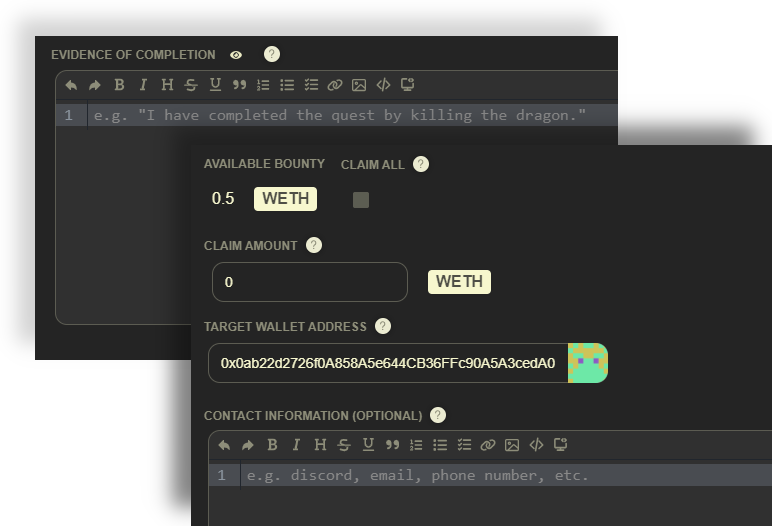
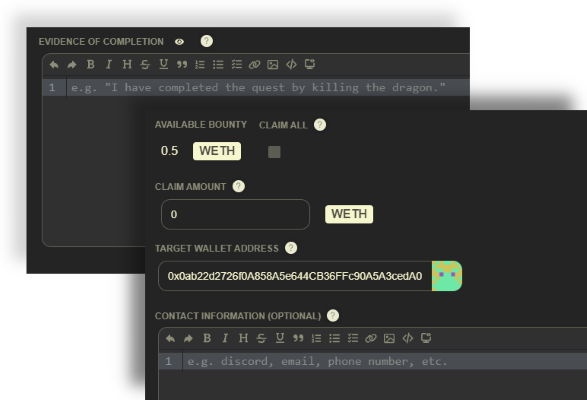
Resize images and pimpup

diff --git a/packages/react-app/src/components/modals/guide-modal.tsx b/packages/react-app/src/components/modals/guide-modal.tsx
@@ -9,6 +9,7 @@ import ClaimScreenshot from 'src/assets/ClaimScreenshot.png';
 import ChallengeScreenshot from 'src/assets/ChallengeScreenshot.png';
 import ResolveScreenshot from 'src/assets/ResolveScreenshot.png';
 import RecoverFundsScreenshot from 'src/assets/RecoverFundsScreenshot.png';
+import useImagePreloader from 'src/hooks/use-image-preloader';
 import { GUpx } from 'src/utils/style.util';
 import styled from 'styled-components';
 import { useThemeContext } from 'src/contexts/theme.context';
@@ -34,7 +35,7 @@ const OpenButtonStyled = styled(Button)<{ theme: ThemeInterface }>`
 const ExploreButtonStyled = styled(Button)<{ theme: ThemeInterface }>`
   &,
   span {
-    color: ${({ theme }) => theme.accentContent};
+    color: ${({ theme }) => theme.content};
   }
 `;
 
@@ -76,7 +77,9 @@ const SecondColStyled = styled.div<{ width?: string }>`
   display: flex;
   flex-direction: column;
   align-items: center;
+  justify-content: center;
   width: ${({ width }) => width ?? '50%'};
+  height: 100%;
 `;
 
 const SideImageStyled = styled.img`
@@ -96,6 +99,16 @@ type Props = {
 export default function GuideModal({ onClose = noop }: Props) {
   const [opened, setOpened] = useState(false);
   const { currentTheme } = useThemeContext();
+
+  useImagePreloader([
+    Piggy,
+    QuestListScreenshot,
+    CreateQuestScreenshot,
+    ClaimScreenshot,
+    ChallengeScreenshot,
+    ResolveScreenshot,
+    RecoverFundsScreenshot,
+  ]);
 
   useEffect(() => {
     if (localStorage.getItem('alreadyVisisted') !== 'true') {
@@ -138,6 +151,7 @@ export default function GuideModal({ onClose = noop }: Props) {
                 label="🌟 Start exploring"
                 title="Start exploring"
                 mode="positive"
+                theme={currentTheme}
               />
             }
             steps={[
@@ -147,18 +161,17 @@ export default function GuideModal({ onClose = noop }: Props) {
                     id="page1"
                     value="#### Quests
 # Welcome 👋
-Here's a quick guide on how to use the Quests platform"
+Here's a 7 steps to understand how Quests works."
                   />
                 </FirstColStyled>
                 <SecondColStyled>
                   <SideImageStyled
                     style={{
                       width: 325,
-                      height: 430,
+                      height: '100%',
                     }}
                     src={backgroundLogo}
                     alt="logo"
-                    loading="lazy"
                   />
                 </SecondColStyled>
               </GuideStepStyled>,
@@ -187,35 +200,35 @@ Here's a quick guide on how to use the Quests platform"
                   />
                 </FirstColStyled>
                 <SecondColStyled>
-                  <SideImageStyled src={QuestListScreenshot} alt="quest list" loading="lazy" />
+                  <SideImageStyled src={QuestListScreenshot} alt="quest list" />
                 </SecondColStyled>
               </GuideStepStyled>,
               <GuideStepStyled>
                 <FirstColStyled width="45%">
                   <MarkdownFieldInput
                     id="page4"
-                    value='## Step 3: Create or Fund a Quest 💰
-- If you are a _Creator_, you can choose to create a quest. Click on the "Create Quest" button. And fill in the details & parameters.
-- If you are a _Patron_, you can choose to fund a quest. Go to the _detail view_ of a specific quest and click on the "Fund" button.'
+                    value="## Step 3: Create or Fund a Quest 💰
+- If you are a _Creator_, you can choose to create a quest. Click on the **Create Quest** button. And fill in the details & parameters.
+- If you are a _Patron_, you can choose to fund a quest. Go to the _detail view_ of a specific quest and click on the **Fund** button."
                   />
                 </FirstColStyled>
                 <SecondColStyled width="55%">
-                  <SideImageStyled src={CreateQuestScreenshot} alt="create quest" loading="lazy" />
+                  <SideImageStyled src={CreateQuestScreenshot} alt="create quest" />
                 </SecondColStyled>
               </GuideStepStyled>,
               <GuideStepStyled>
                 <FirstColStyled>
                   <MarkdownFieldInput
                     id="page5"
-                    value='## Step 4: Participate in a Quest 🌟
-- If you are a _Player_, you can choose to participate in a quest if its an open participation quest. Go to the _detail view_ of a specific quest and click on the "Play" button.
-- Then you will be elligible to claim the quest reward. Click on the "Claim quest" button.
+                    value="## Step 4: Participate in a Quest 🌟
+- If you are a _Player_, you can choose to participate in a quest if its an open participation quest. Go to the _detail view_ of a specific quest and click on the **Play** button.
+- Then you will be elligible to claim the quest reward. Click on the **Claim quest** button.
 - Provide evidence of completion as per the requirements specified in the quest description.
-- Specify the amount you want to claim.'
+- Specify the amount you want to claim."
                   />
                 </FirstColStyled>
                 <SecondColStyled>
-                  <SideImageStyled src={ClaimScreenshot} alt="claim" loading="lazy" />
+                  <SideImageStyled src={ClaimScreenshot} alt="claim" />
                 </SecondColStyled>
               </GuideStepStyled>,
               <GuideStepStyled>
@@ -228,7 +241,7 @@ Here's a quick guide on how to use the Quests platform"
                   />
                 </FirstColStyled>
                 <SecondColStyled>
-                  <SideImageStyled src={ChallengeScreenshot} alt="challenge" loading="lazy" />
+                  <SideImageStyled src={ChallengeScreenshot} alt="challenge" />
                 </SecondColStyled>
               </GuideStepStyled>,
               <GuideStepStyled>
@@ -236,13 +249,13 @@ Here's a quick guide on how to use the Quests platform"
                   <MarkdownFieldInput
                     id="page7"
                     value="## Step 6: Resolving Challenges 🧑⚖
-- If a claim is challenged, it will be raised to _Celeste_ which will decide whether the work has been completed as expected.
-- If the challenge is resolved in favor of the _Player_, the claim will be fulfilled and the player will win the challenger's deposit.
-- If the challenge is resolved in favor of the _Challenger_, the claim is rejected and the challenger wins the player's deposit."
+- If a claim is challenged, it will be raised to **Celeste** which will decide whether the work has been completed as expected.
+- If the challenge is resolved in favor of the **Player**, the claim will be fulfilled and the player will win the challenger's deposit.
+- If the challenge is resolved in favor of the **Challenger**, the claim is rejected and the challenger wins the player's deposit."
                   />
                 </FirstColStyled>
                 <SecondColStyled>
-                  <SideImageStyled src={ResolveScreenshot} alt="Resolve challenge" loading="lazy" />
+                  <SideImageStyled src={ResolveScreenshot} alt="Resolve challenge" />
                 </SecondColStyled>
               </GuideStepStyled>,
               <GuideStepStyled>
@@ -250,16 +263,13 @@ Here's a quick guide on how to use the Quests platform"
                   <MarkdownFieldInput
                     id="page7"
                     value="## Step 7: Recover Funds 💸
-- Once a quest has expired, the _Creator_ can recover his deposit and the remaining funds will be send to the initially specified fallback address.
-##### 🌟 Remember, it's essential to thoroughly understand the rules and requirements of each quest before participating. Happy questing!"
+- Once a quest has expired, the **Creator** can recover his deposit and the remaining funds will be send to the initially specified fallback address.
+##### Remember, it's essential to thoroughly understand the rules and requirements of each quest before participating.
+#### Happy questing! 🌟"
                   />
                 </FirstColStyled>
                 <SecondColStyled>
-                  <SideImageStyled
-                    src={RecoverFundsScreenshot}
-                    alt="Recover funds"
-                    loading="lazy"
-                  />
+                  <SideImageStyled src={RecoverFundsScreenshot} alt="Recover funds" />
                 </SecondColStyled>
               </GuideStepStyled>,
             ]}

diff --git a/packages/react-app/src/hooks/use-image-preloader.ts b/packages/react-app/src/hooks/use-image-preloader.ts
@@ -1,0 +1,41 @@
+import { useEffect, useState } from 'react';
+
+function preloadImage(src: string) {
+  return new Promise((resolve, reject) => {
+    const img = new Image();
+    img.onload = () => resolve(img);
+    img.onabort = () => reject(src);
+    img.onerror = () => reject(src);
+    img.src = src;
+  });
+}
+
+export default function useImagePreloader(imageList: string[]) {
+  const [imagesPreloaded, setImagesPreloaded] = useState<boolean>(false);
+
+  useEffect(() => {
+    let isCancelled = false;
+
+    const effect = async () => {
+      if (isCancelled) {
+        return;
+      }
+
+      await Promise.all(imageList.map(preloadImage));
+
+      if (isCancelled) {
+        return;
+      }
+
+      setImagesPreloaded(true);
+    };
+
+    effect();
+
+    return () => {
+      isCancelled = true;
+    };
+  }, [imageList]);
+
+  return { imagesPreloaded };
+}

diff --git a/packages/react-app/src/components/utils/stepper.tsx b/packages/react-app/src/components/utils/stepper.tsx
@@ -59,6 +59,7 @@ const StepperPagerWrapperStyled = styled.div<{ theme: ThemeInterface }>`
     border: 1px solid ${({ theme }) => theme.content};
     color: ${({ theme }) => theme.accentContent};
     text-align: center;
+    user-select: none;
 
     &:not(.active) {
       cursor: pointer;
@@ -155,7 +156,9 @@ export default function Stepper({
                 role="button"
                 className={currentStep === index ? 'active' : ''}
                 onClick={() => setStep(index)}
-                onKeyDown={() => setStep(index)}
+                onKeyDown={(ev) => {
+                  (ev.key === 'Enter' || ev.key === 'Space') && setStep(index);
+                }}
               >
                 <span>{index}</span>
               </div>
